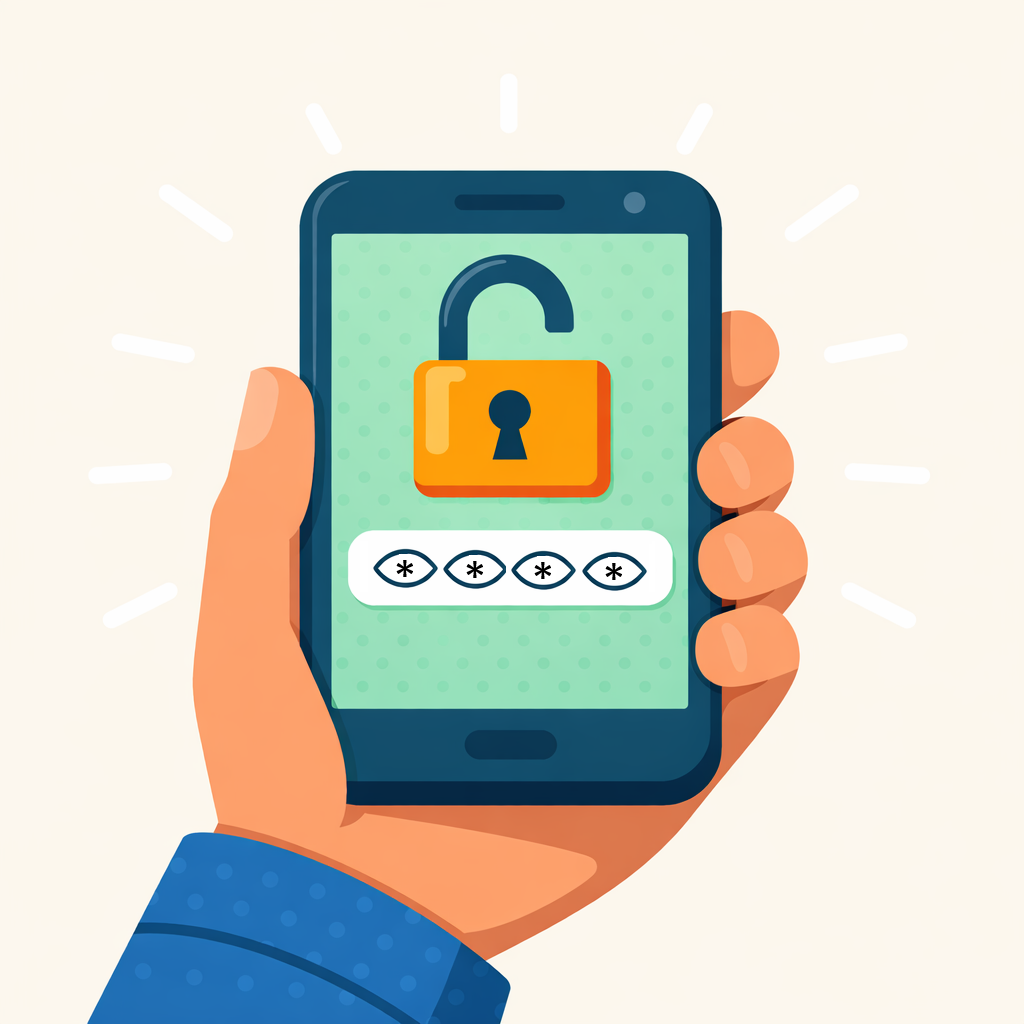
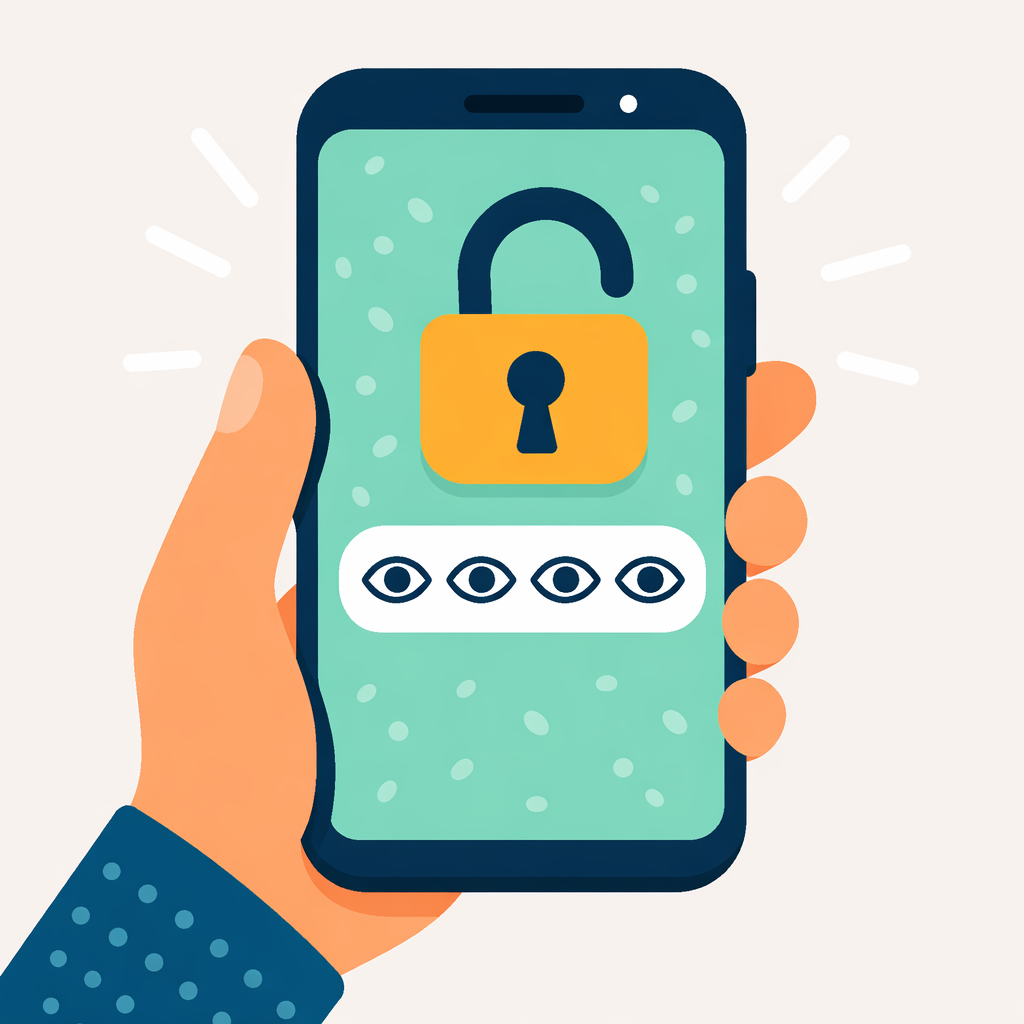
Add files via upload

diff --git a/index.html b/index.html
@@ -1,45 +1,131 @@
 <!DOCTYPE html>
-<html lang="en"><link type="text/css" rel="stylesheet" id="dark-mode-custom-link"><link type="text/css" rel="stylesheet" id="dark-mode-general-link"><style type="text/css" id="dark-mode-custom-style" lang="en"></style><style type="text/css" id="dark-mode-native-style" lang="en"></style><head>
+<html lang="en">
+<head>
 	<title>Eye Lock My Screen</title>
-		<link rel="shortcut icon" type="image/ico" href="/EyeLockMyScreen.ico"/>
-		<meta http-equiv="content-type" content="text/html; charset=UTF-8">
-		<meta name="description" content="Eye Lock My Screen; A playful way to show your collegue it's a good idea to lock your screen.">
-		<meta name="viewport" content="width=device-width, initial-scale=1">
-		<meta name="twitter:card" content="summary_large_image">
-                <meta name="twitter:title" content="Eye Lock My Screen - Eye can see you secret data!">
-                <meta name="twitter:description" content="A playful way to show your collegue it's a good idea to lock your screen.">
-                <meta name="twitter:image" content="https://EyeLockMyScreen.com/EyeLockMyScreenTw.png">
-		<meta property="og:title" content="Eye Lock My Screen - Eye can see you secret data!">
-		<meta property="og:image" content="https://EyeLockMyScreen.com/EyeLockMyScreenFb.png">
-		<meta property="og:description" content="A playful way to show your collegue it's a good idea to lock your screen.">
-		<meta property="og:url" content="https://EyeLockMyScreen.com">
-		<link rel="canonical" href="https://eyelockmyscreen.com/">
-		<link type="text/css" href="EyeLockMyScreen.css" rel="stylesheet">
-		<script type="text/javascript" src="jquery-1.js"></script>
-		<script type="text/javascript" src="fullscreen.js"></script>
-		<script type="text/javascript" src="eyesoncanvas.js"></script>
-		<script type="text/javascript" src="piwik.js"></script>
-		<script type="text/javascript" src="opennewwindow.js"></script>
-	</head>
-	<body>
-		<center>
-		<div id="canvasEye2">
-			<canvas class="canvasEye" width="200" height="200" onclick="toggleFullScreen()"></canvas>
-			<canvas class="canvasEye" width="200" height="200" onclick="toggleFullScreen()"></canvas>
-		</div>
-		
-		<div class="xlargetext">
-			<h1>Eye see you forgot to lock your screen 🔒</h1>
-			<h1>Now eye can see all your secret data!</h1>
-		</div>
-		<br>
-		<div class="largetext">
-			<p>Click on one of my eyes to enter or escape full screen.</p>
-		</div>
-		<div class="link-wrapper">
-			<a href="#" onclick="openNewWindow(); return false;" alt="Open this page again in a new window/tab" title="Open this page again in a new window/tab">Clone this window</a> if you have multiple screens to fill.</br>
-			Got a Flipper Zero/Rubber Ducky? Use my <a href="https://github.com/Zarcolio/flipperzero/blob/main/BadUSB/Ducky%20Scripts/Awareness/EyeLock_Edge_Win.txt" alt="Ducky script to open this website in full screen and lock the screen" title="Ducky script to open this website in full screen and lock the screen">Ducky script</a>.</br>
-			This page is also reachable via the shortcut domain <a href="https://lock.nu" alt="Shortcut domain to eyelockmyscreen.com" title="Shortcut domain to eyelockmyscreen.com">lock.nu</a>.
-		</div>
+	<link rel="shortcut icon" type="image/ico" href="/EyeLockMyScreen.ico"/>
+	<meta http-equiv="content-type" content="text/html; charset=UTF-8">
+	<meta name="description" content="Eye Lock My Screen; A playful way to show your collegue it's a good idea to lock your screen.">
+	<meta name="viewport" content="width=device-width, initial-scale=1">
+	<meta name="twitter:card" content="summary_large_image">
+	<meta name="twitter:title" content="Eye Lock My Screen - Eye can see you secret data!">
+	<meta name="twitter:description" content="A playful way to show your collegue it's a good idea to lock your screen.">
+	<meta name="twitter:image" content="https://EyeLockMyScreen.com/EyeLockMyScreenTw.png">
+	<meta property="og:title" content="Eye Lock My Screen - Eye can see you secret data!">
+	<meta property="og:image" content="https://EyeLockMyScreen.com/EyeLockMyScreenFb.png">
+	<meta property="og:description" content="A playful way to show your collegue it's a good idea to lock your screen.">
+	<meta property="og:url" content="https://EyeLockMyScreen.com">
+	<link rel="canonical" href="https://eyelockmyscreen.com/">
+	<link type="text/css" href="EyeLockMyScreen.css" rel="stylesheet">
+	<script type="text/javascript" src="jquery-1.js"></script>
+	<script type="text/javascript" src="fullscreen.js"></script>
+	<script type="text/javascript" src="eyesoncanvas.js"></script>
+	<script type="text/javascript" src="piwik.js"></script>
+	<script type="text/javascript" src="opennewwindow.js"></script>
 
-</center></body></html>
+	<style>
+		/* ── Mobile section: hidden by default (desktop) ── */
+		.mobile-view {
+			display: none;
+		}
+
+		/* Touch device with a mobile-sized screen — covers portrait AND landscape, excludes touchscreen laptops/monitors */
+		@media (pointer: coarse) and (max-width: 1024px) {
+			/* Hide desktop content */
+			.desktop-view {
+				display: none !important;
+			}
+
+			/* Show mobile content */
+			.mobile-view {
+				display: flex;
+				flex-direction: column;
+				align-items: center;
+				justify-content: center;
+				font-family: Arial, sans-serif;
+				background-color: #f0f0f0;
+				color: #333;
+				line-height: 1.6;
+				min-height: 100vh;
+				padding: 1rem;
+				box-sizing: border-box;
+			}
+
+			.mobile-view img {
+				width: 100%;
+				max-width: 400px;
+				max-height: 45vh;
+				object-fit: contain;
+				height: auto;
+				margin-bottom: 1rem;
+			}
+
+			.mobile-view p {
+				font-size: 1rem;
+				text-align: center;
+				margin-bottom: 1rem;
+				max-width: 90%;
+			}
+		}
+
+		/* In landscape on touch devices, side-by-side layout */
+		@media (pointer: coarse) and (max-width: 1024px) and (orientation: landscape) {
+			.mobile-view {
+				flex-direction: row;
+				align-items: center;
+				justify-content: center;
+				padding: 0.5rem;
+			}
+
+			.mobile-view img {
+				width: auto;
+				max-width: 45vw;
+				max-height: 90vh;
+				margin-bottom: 0;
+				margin-right: 1.5rem;
+				flex-shrink: 0;
+			}
+
+			.mobile-view .text-block {
+				max-width: 45vw;
+				text-align: center;
+			}
+		}
+	</style>
+</head>
+<body>
+
+	<!-- ── DESKTOP CONTENT ── -->
+	<div class="desktop-view">
+		<center>
+			<div id="canvasEye2">
+				<canvas class="canvasEye" width="200" height="200" onclick="toggleFullScreen()"></canvas>
+				<canvas class="canvasEye" width="200" height="200" onclick="toggleFullScreen()"></canvas>
+			</div>
+
+			<div class="xlargetext">
+				<h1>Eye see you forgot to lock your screen 🔒</h1>
+				<h1>Now eye can see all your secret data!</h1>
+			</div>
+			<br>
+			<div class="largetext">
+				<p>Click on one of my eyes to enter or escape full screen.</p>
+			</div>
+			<div class="link-wrapper">
+				<a href="#" onclick="openNewWindow(); return false;" alt="Open this page again in a new window/tab" title="Open this page again in a new window/tab">Clone this window</a> if you have multiple screens to fill.</br>
+				Got a Flipper Zero/Rubber Ducky? Use my <a href="https://github.com/Zarcolio/flipperzero/blob/main/BadUSB/Ducky%20Scripts/Awareness/EyeLock_Edge_Win.txt" alt="Ducky script to open this website in full screen and lock the screen" title="Ducky script to open this website in full screen and lock the screen">Ducky script</a>.</br>
+				This page is also reachable via the shortcut domain <a href="https://lock.nu" alt="Shortcut domain to eyelockmyscreen.com" title="Shortcut domain to eyelockmyscreen.com">lock.nu</a>.
+			</div>
+		</center>
+	</div>
+
+	<!-- ── MOBILE CONTENT ── -->
+	<div class="mobile-view">
+		<img src="phone_unlocked.png" alt="Unlocked phone illustration">
+		<div class="text-block">
+			<p>Did you know that leaving your phone unlocked can expose your sensitive information to potential threats?</p>
+			<p>Protecting your phone is essential to maintaining your privacy and security. Always remember to lock your phone when not in use.</p>
+		</div>
+	</div>
+
+</body>
+</html>
